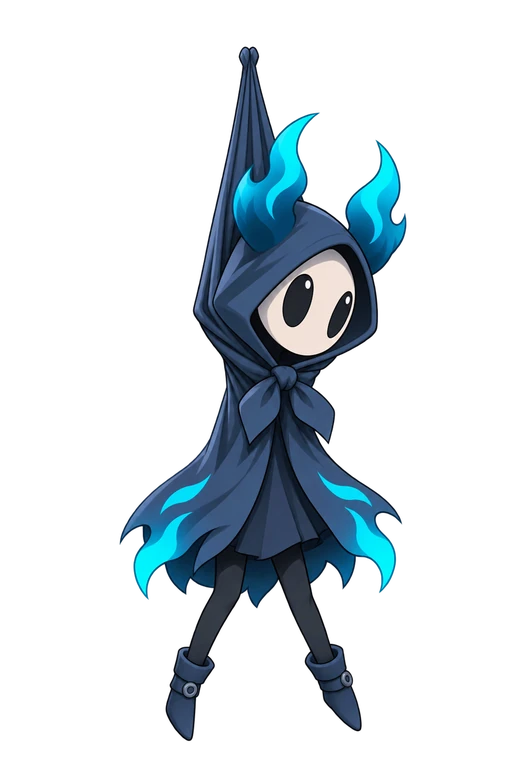
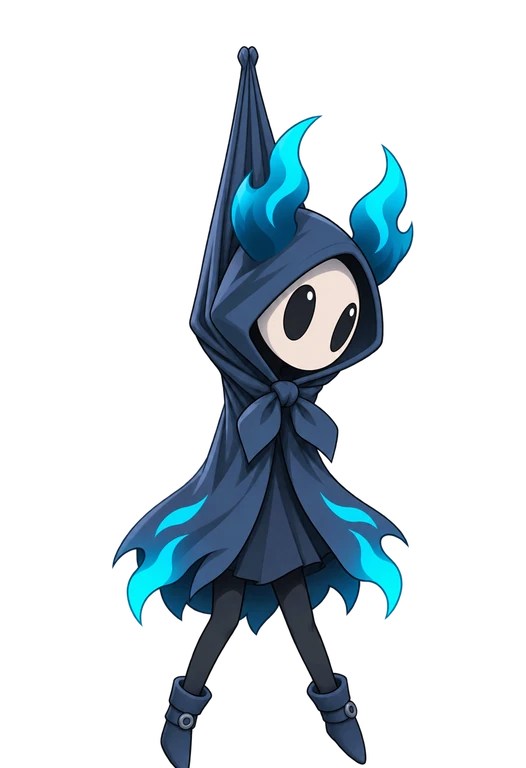
fix(companion): animation critic round 6 — frame sizes by head measure, no turn during transitions
Critic round 6: 8.5/10 (turn and emote 9, idle 9.5). Fixed: rescaled by the measured mask size —
walk_to_stand_1 ×1.09 of the source (×1.2 overshot), stand_to_wave_1 and stand_to_held_1 ×1.05; a
turn waits while a transition sequence plays (a turning stand showed up before the landing frame).

Changed region(s): [[0.2129, 0.0625, 0.7909, 1.0]]

diff --git a/ui/src/features/companion/look/motion.ts b/ui/src/features/companion/look/motion.ts
@@ -111,11 +111,12 @@ export class Motion {
     this.#fade = this.previous === null || this.#fadeS <= 0 ? 1 : 0;
   }
 
-  step(body: Body, dt: number): Pose2D {
+  /** `hold` — идёт переходная последовательность: разворот ждёт её конца (критик, раунд 6). */
+  step(body: Body, dt: number, hold = false): Pose2D {
     this.#fade = this.#fadeS <= 0 ? 1 : Math.min(1, this.#fade + dt / this.#fadeS);
     this.#swapT += dt;
     if (this.#fade >= 1 && this.swap === null) this.previous = null;
-    this.#turn(body.facing, dt);
+    if (!hold) this.#turn(body.facing, dt);
     this.#tilt(body, dt);
     this.#landing(body.phase, dt);
     const squash = Math.sin(Math.PI * this.#land) * (1 - this.#land);

diff --git a/ui/src/features/companion/look/stage.ts b/ui/src/features/companion/look/stage.ts
@@ -241,7 +241,7 @@ export class CompanionStage {
     // Растворять ли кадры цикла, решает `SOFT_LOOPS` (motion.ts): ходьба, лазанье, танец — нет.
     const loopS = 1 / (LOOP_FPS[body.pose] ?? 6);
     this.#motion.frame(image, body.pose, this.#edge ? 0 : loopS);
-    const smooth = this.#motion.step(body, this.#lastDt);
+    const smooth = this.#motion.step(body, this.#lastDt, this.#transitionKey() !== null);
     ctx.translate(body.x, body.y - lift);
     ctx.rotate(smooth.lean);
     ctx.scale(smooth.scaleX, smooth.scaleY + breath);
